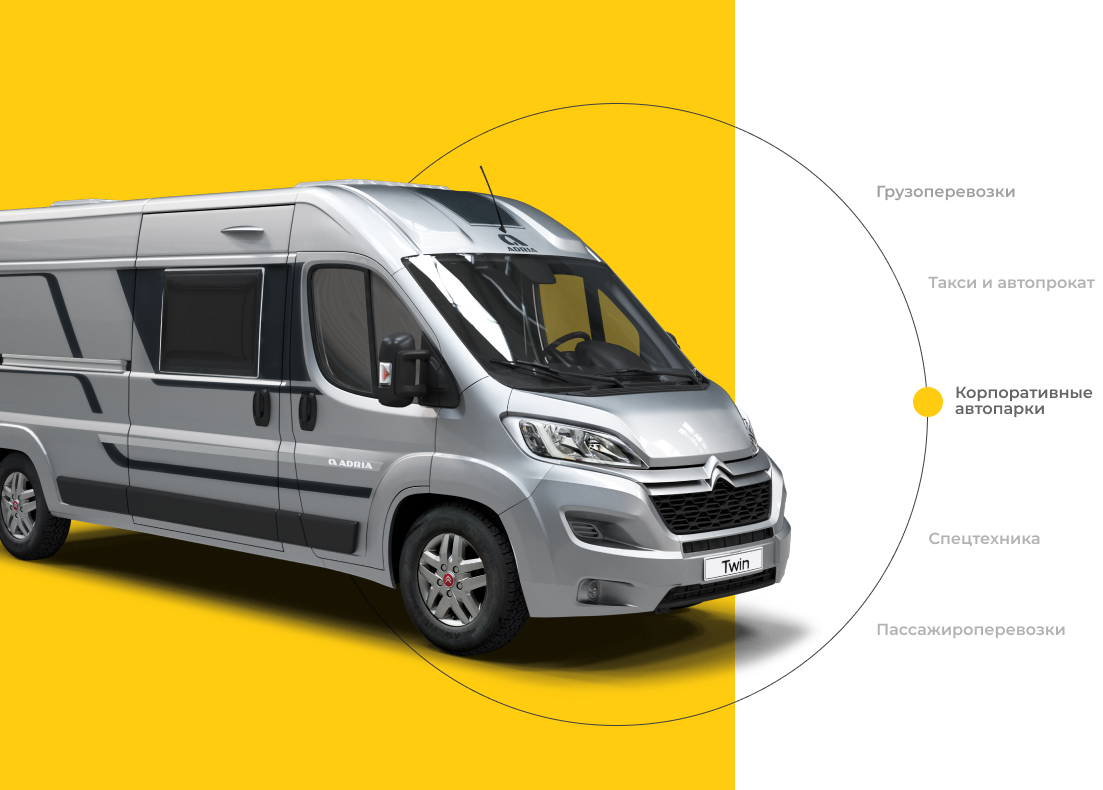
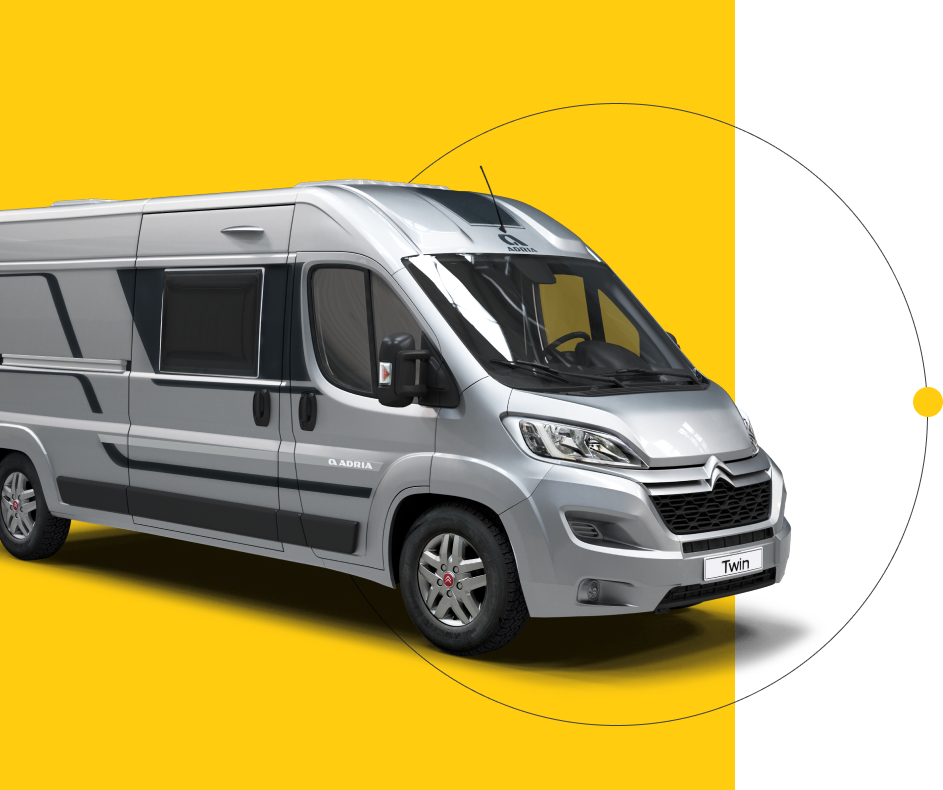
cars

diff --git a/style/style.css b/style/style.css
@@ -322,9 +322,46 @@ body main .solutions {
 body main .solutions .miniTruck {
   display: none;
 }
+body main .solutions .truck {
+  position: relative;
+  display: flex;
+}
+body main .solutions .truck .switch {
+  position: absolute;
+  font-family: "Montserrat";
+  font-style: normal;
+  font-weight: 600;
+  font-size: 16px;
+  line-height: 100%;
+  color: rgba(101, 101, 101, 0.5);
+  cursor: pointer;
+}
+body main .solutions .truck .active {
+  color: #404040;
+}
+body main .solutions .truck .cargo {
+  top: 183px;
+  right: -68px;
+}
+body main .solutions .truck .taxi {
+  top: 274px;
+  right: -168px;
+}
+body main .solutions .truck .corp {
+  top: 384px;
+  right: -162px;
+}
+body main .solutions .truck .spec {
+  top: 527px;
+  right: -125px;
+}
+body main .solutions .truck .passenger {
+  top: 622px;
+  right: -152px;
+}
 body main .solutions .choose {
   max-width: 408px;
-  margin-left: 131px;
+  margin-left: 250px;
 }
 body main .solutions .choose .mobTabs {
   display: none;
@@ -766,9 +803,13 @@ body .mask .popup .content .accept {
     padding-top: 57px;
     padding-left: 50px;
   }
+  body main .solutions {
+    flex-direction: column;
+  }
   body main .solutions .truck {
-    width: 72%;
+    width: 80%;
     height: fit-content;
+    margin-bottom: 30px;
   }
   body main .solutions .choose {
     margin-left: 10px;

diff --git a/style/style.scss b/style/style.scss
@@ -364,9 +364,46 @@ body {
       .miniTruck{
         display: none;
       }
+      .truck{
+        position: relative;
+        display: flex;
+        .switch{
+          position: absolute;
+          font-family: 'Montserrat';
+          font-style: normal;
+          font-weight: 600;
+          font-size: 16px;
+          line-height: 100%;
+          color: rgba(101, 101, 101, 0.5);
+          cursor: pointer;
+        }
+        .active{
+          color: #404040;
+        }
+        .cargo{
+          top: 183px;
+          right: -68px;
+        }
+        .taxi{
+          top: 274px;
+          right: -168px;
+        }
+        .corp{
+          top:384px;
+          right: -162px;
+        }
+        .spec{
+          top: 527px;
+          right: -125px;
+        }
+        .passenger{
+          top: 622px;
+          right: -152px;
+        }
+      }
       .choose {
         max-width: 408px;
-        margin-left: 131px;
+        margin-left: 250px;
         .mobTabs{
           display: none;
         }
@@ -847,9 +884,11 @@ body {
         }
       }
       .solutions{
+        flex-direction: column;
         .truck{
-          width: 72%;
+          width: 80%;
           height: fit-content;
+          margin-bottom: 30px;
         }
         .choose{
           margin-left: 10px;

diff --git a/index.html b/index.html
@@ -7,6 +7,7 @@
     <meta http-equiv="X-UA-Compatible" content="ie=edge">
     <link rel="stylesheet" href="style/style.css">
     <link rel="stylesheet" href="style/stylesheet.css">
+    <script src="https://ajax.googleapis.com/ajax/libs/jquery/3.6.0/jquery.min.js"></script>
     <title>Document</title>
 </head>
 <body>
@@ -384,7 +385,14 @@
             </div>
         </div>
         <div class="solutions">
-            <img class="truck" src="images/truck.png" alt="truck">
+            <div class="truck">
+                <img class="truckPic" src="images/truck.png" alt="truck">
+                <div class="switch cargo active">Грузоперевозки</div>
+                <div class="switch taxi">Такси и автопрокат</div>
+                <div class="switch corp">Корпоративные <br> автопарки</div>
+                <div class="switch spec">Спецтехника</div>
+                <div class="switch passenger">Пассажироперевозки</div>
+            </div>
             <div class="choose">
                 <div class="title">Готовые отраслевые <br> решения</div>
                 <div class="subtitle">
@@ -553,5 +561,6 @@
         </div>
     </div>
     <script src="script/main.js"></script>
+
 </body>
 </html>

diff --git a/script/main.js b/script/main.js
@@ -5,3 +5,30 @@ document.querySelector('.getSolution').onclick = function (){
 document.querySelector('.xclose').onclick = function (){
     document.querySelector('.mask').style.display = "none";
 }
+$( document ).ready(function() {
+    $(".cargo").click(function (){
+        $(".switch").removeClass('active');
+        $(this).addClass('active');
+        $(".truckPic").attr('src','images/truck.png');
+    });
+    $(".taxi").click(function (){
+        $(".switch").removeClass('active');
+        $(this).addClass('active');
+        $(".truckPic").attr('src','images/taxi.png');
+    });
+    $(".corp").click(function (){
+        $(".switch").removeClass('active');
+        $(this).addClass('active');
+        $(".truckPic").attr('src','images/corp.png');
+    });
+    $(".spec").click(function (){
+        $(".switch").removeClass('active');
+        $(this).addClass('active');
+        $(".truckPic").attr('src','images/spec.png');
+    });
+    $(".passenger").click(function (){
+        $(".switch").removeClass('active');
+        $(this).addClass('active');
+        $(".truckPic").attr('src','images/passenger.png');
+    });
+});
